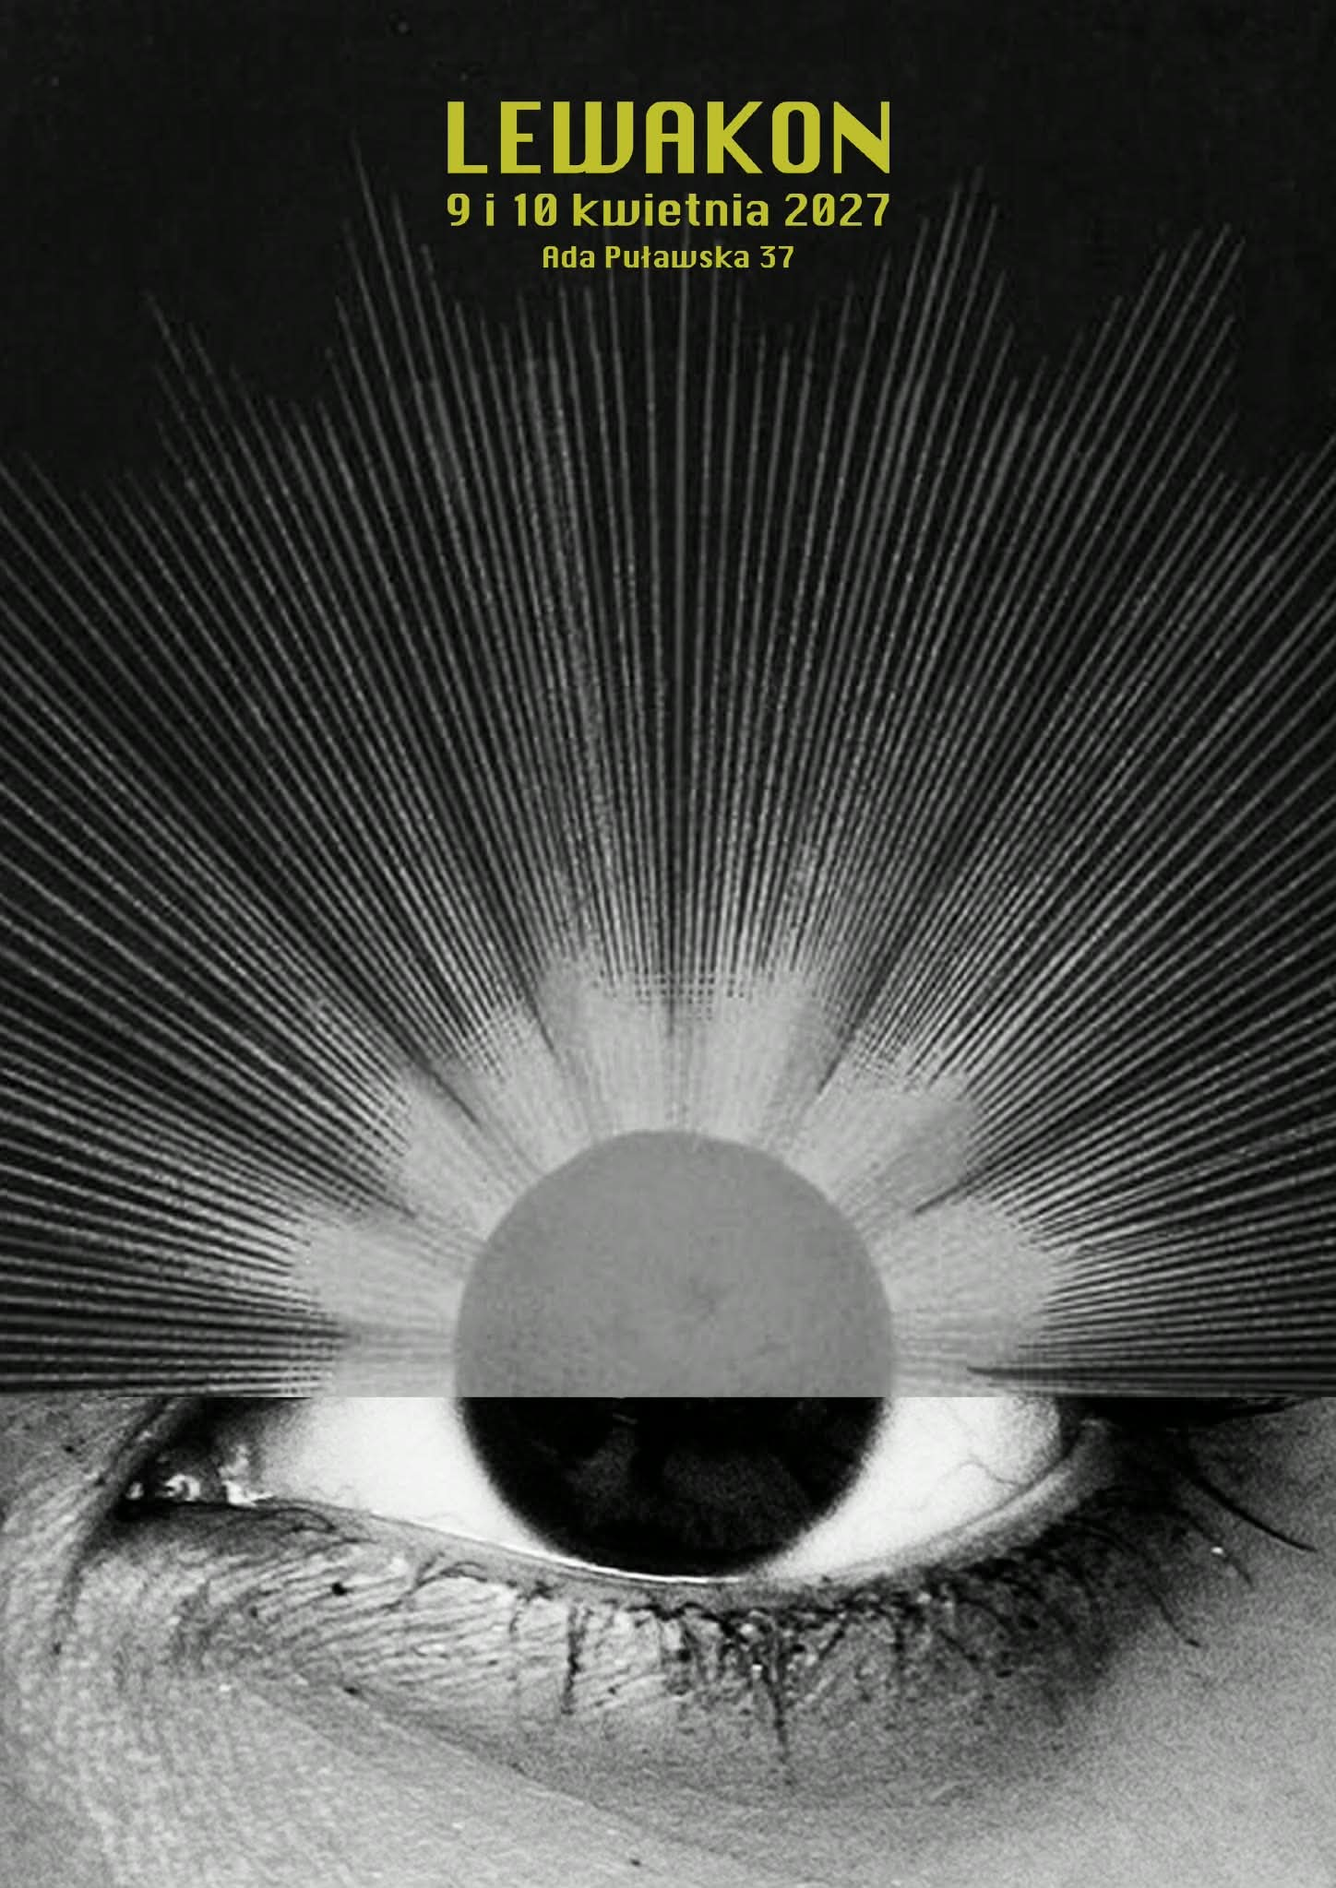
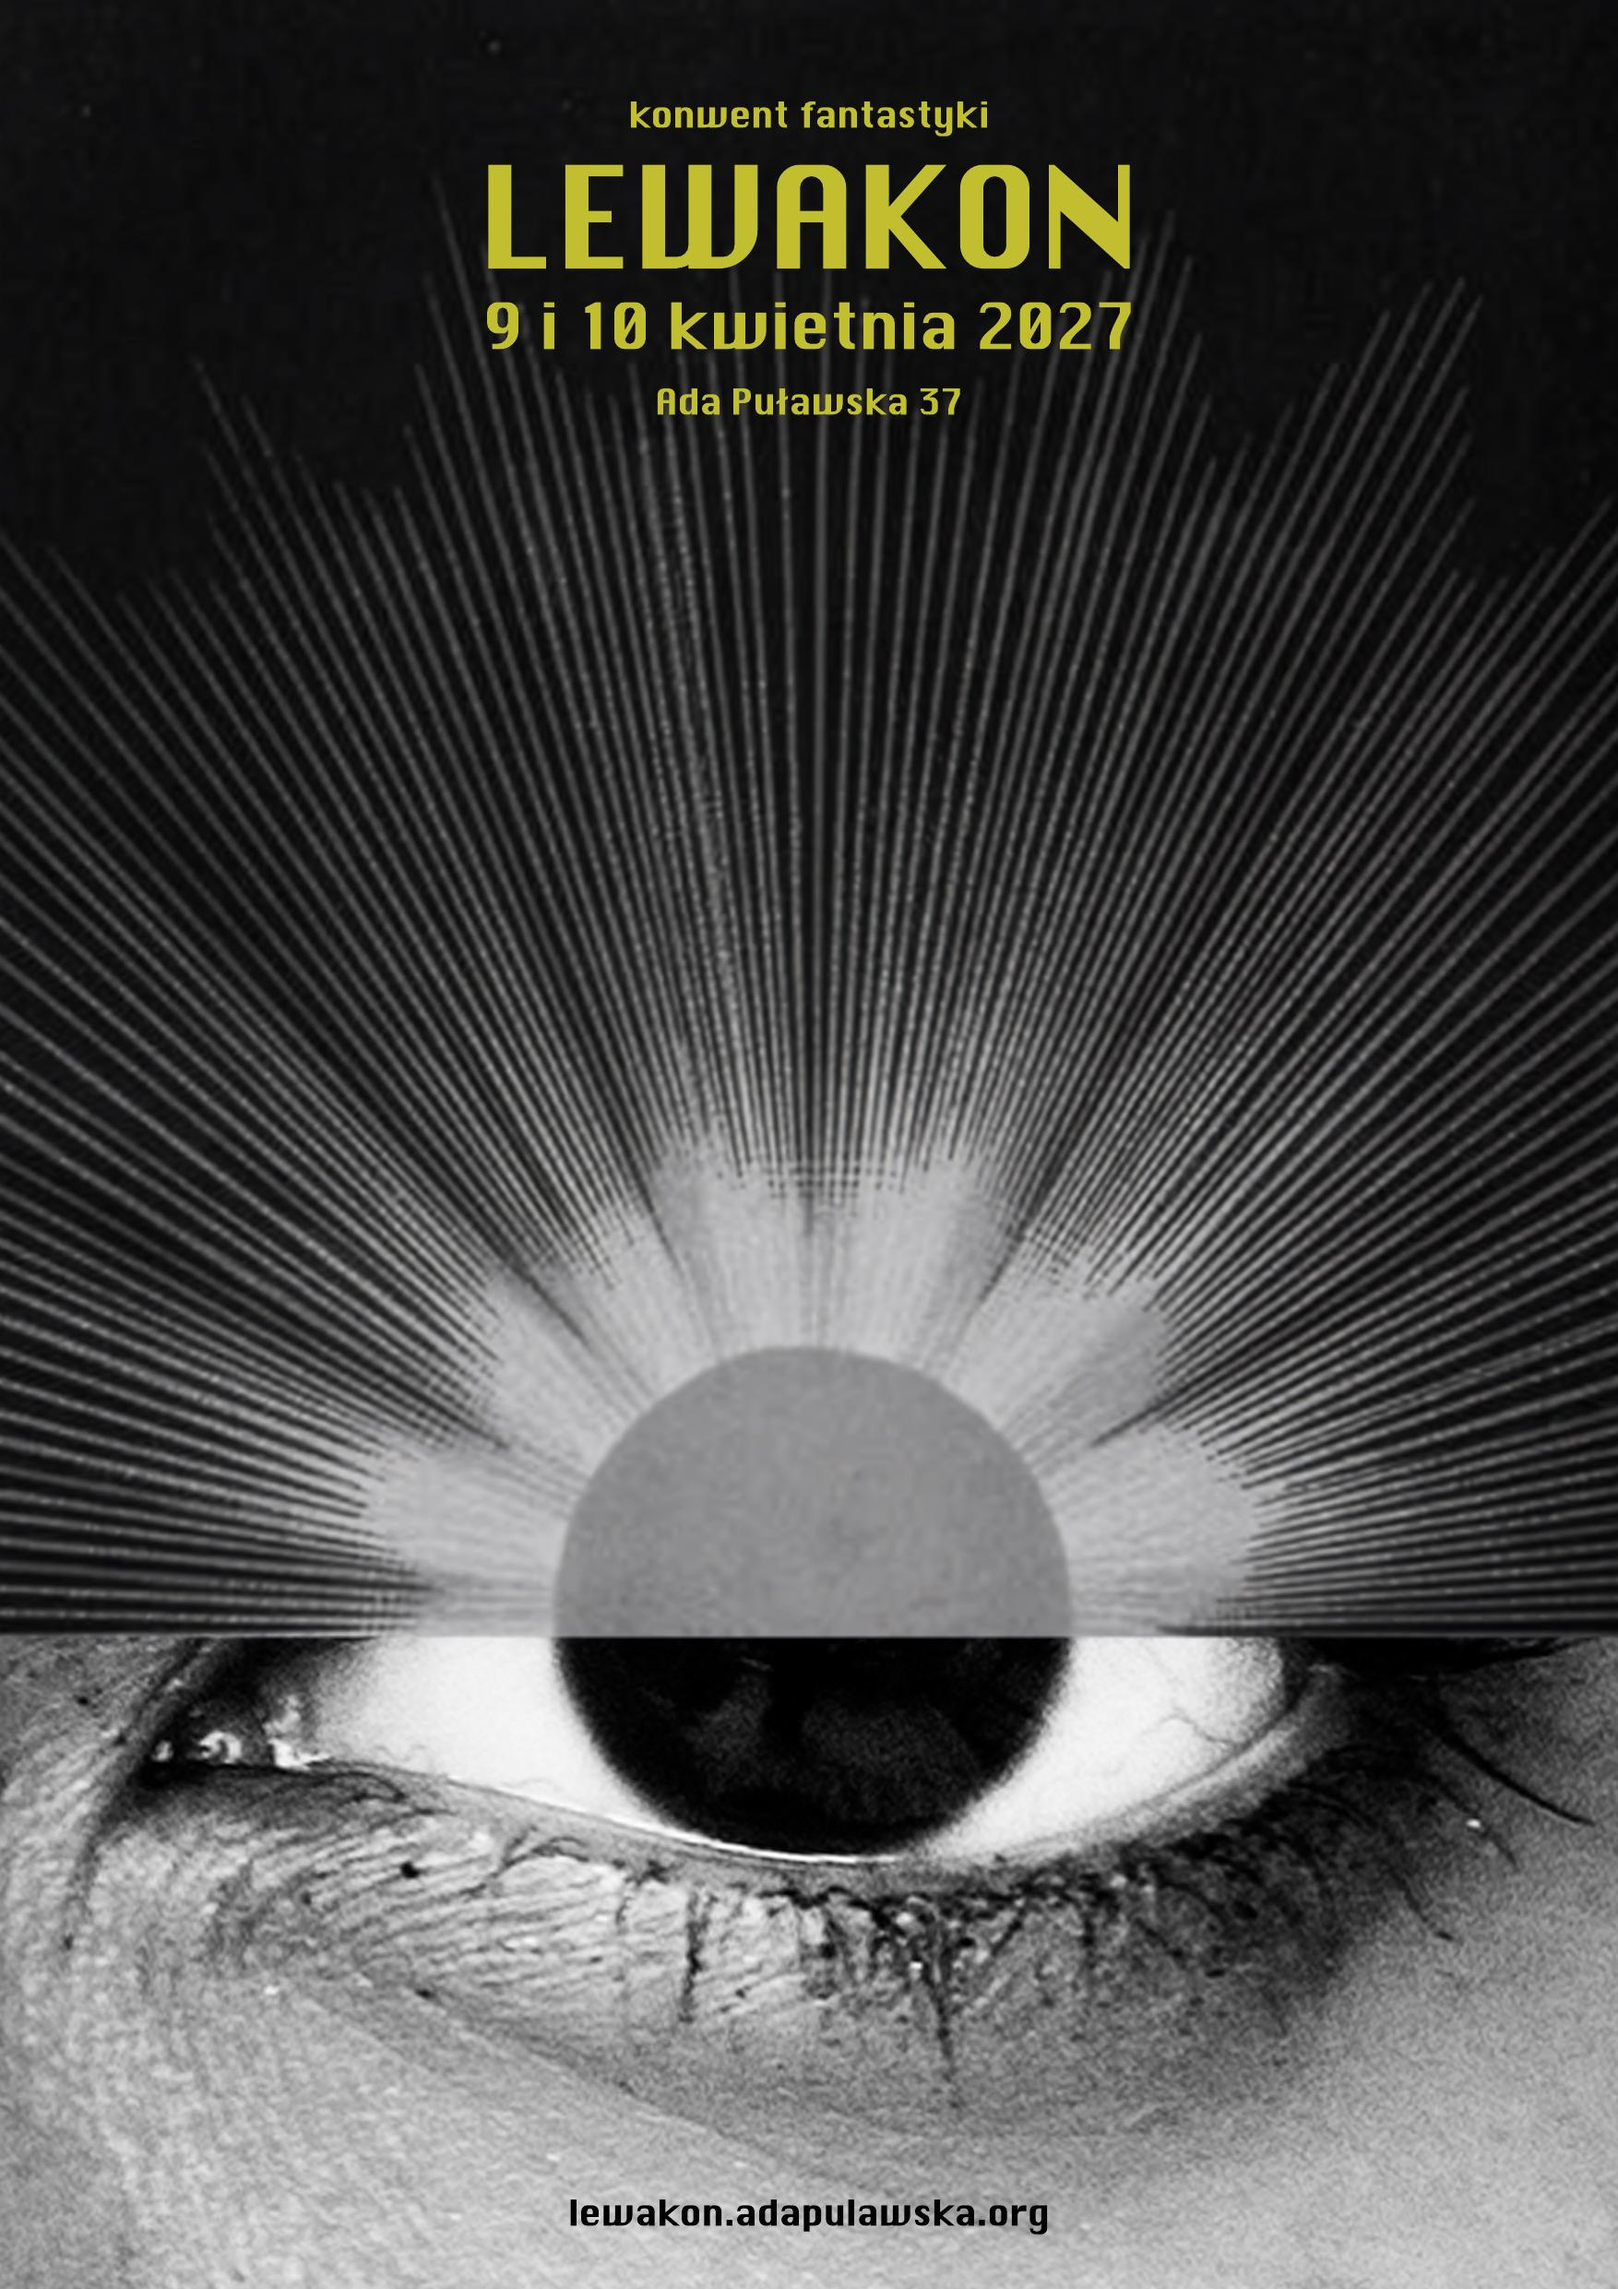
added intro text and cosmetics

diff --git a/assets/css/custom.css b/assets/css/custom.css
@@ -10,3 +10,53 @@
     width: min(70vw, 280px);
   }
 }
+.centered .news {
+  text-align: justify;
+}
+/* li z powrotem blokowe, żeby summary i read-more szły pod spodem */
+.list ul:not(.pagination) li {
+  display: block;
+}
+
+/* data + tytuł obok siebie, jak w oryginale */
+.list .post-meta {
+  display: flex;
+  align-items: baseline;
+}
+
+.list .post-meta .date {
+  width: 20rem;
+  text-align: right;
+  margin-right: 3rem;
+}
+
+@media only screen and (max-width: 768px) {
+  .list .post-meta {
+    display: block;
+  }
+  .list .post-meta .date {
+    width: auto;
+    text-align: left;
+    margin-right: 0;
+  }
+}
+
+.list .summary {
+  text-align: justify;
+  margin-top: 0.8rem;
+}
+
+.list .read-more {
+  margin-top: 0.8rem;
+}
+.list .post-meta .date {
+  width: auto;
+  text-align: left;
+  margin-right: 0;
+  font-size: 2rem;
+}
+
+.list .post-meta .title {
+  font-size: 2rem;
+  margin-left: 1rem;
+}

diff --git a/layouts/_partials/home/author.html b/layouts/_partials/home/author.html
@@ -1,0 +1,20 @@
+<h1>{{ .Site.Params.author }}</h1>
+{{ if reflect.IsSlice .Site.Params.info }}
+<h2>{{ range .Site.Params.info }}{{ . | markdownify }}<br>{{ end }}</h2>
+{{ else }}
+<h2>{{ .Site.Params.info | markdownify }}</h2>
+{{ end }}
+
+{{/* ===== WERSJA A: najnowszy post z posts/ (automatycznie) ===== 
+{{ with (first 1 (where site.RegularPages "Section" "posts")) }}
+  {{ range . }}
+    <div class="news">{{ .Content }}</div>
+  {{ end }}
+{{ end }}
+*/}}
+
+{{/* ===== WERSJA B: konkretny przypięty post (zmień ścieżkę) =====*/}}
+{{ with site.GetPage "/posts/hello-world" }}
+  <div class="news">{{ .Content }}</div>
+{{ end }}
+

diff --git a/layouts/posts/li.html b/layouts/posts/li.html
@@ -1,0 +1,10 @@
+<li>
+  <div class="post-meta">
+    <span class="date">{{ .Date | time.Format (.Site.Params.dateFormat | default "2 January 2026") }}</span>
+    <!-- <a class="title" href="{{ .Params.externalLink | default .RelPermalink }}">{{ .Title }}</a> -->
+  </div>
+  <div class="summary">{{ .Summary }}</div>
+  {{ if .Truncated }}
+    <div class="read-more"><a href="{{ .RelPermalink }}">czytaj dalej →</a></div>
+  {{ end }}
+</li>

diff --git a/content/posts/hello-world.md b/content/posts/hello-world.md
@@ -11,6 +11,42 @@ externalLink = ""
 series = []
 +++
 
-# Ogłaszamy że będzie LEWAKON
+# Ogłaszamy LEWAKON
 
-Tu pojawi się tekst o tym co robimy i w ogóle
+Najwyższa pora, żeby paladyni z magicznych krain nosili tęczę na tarczach, a międzygwiezdni rebelianci malowali trzy strzały na burtach swoich statków!
+
+Smoki i gołe baby na okładkach książek fantasy nie kojarzą się specjalnie wywrotowo i woke. Jednak nic nie jest w stanie powstrzymać zalewu lewactwa i tęczowej zarazy, które powoli kolonizują tawerny fantastyki i kosmiczne bary sci-fi. Rynek nie znosi próżni i na potrzebę musi być odpowiedź. Tak zrodził się LEWAKON. Z in vitro.
+
+No dobra, nie oszukujmy się – światy wyobraźni od dawna były zainfekowane lewakizmem, zmuszały ludzi do wyobrażenia sobie rzeczy niewyobrażalnych: równości społecznej, niebinarnych płci, farmy, na której farmerzy to zwierzęta (i jest to krytyka kapitalizmu, choć wszyscy myślą, że komunizmu). Co znaleźliśmy i znajdujemy w tych wyśnionych krainach? Marzenia, koszmary? Ucieczkę od rzeczywistości czy boleśnie prawdziwy komentarz do niej?
+
+Podczas tego pierwszego (prawdziwie!) lewicowego konwentu odwiedzimy różne miejsca. Zielone, solarpunkowe utopie, które dają odwagę, żeby wierzyć, że inna przyszłość jest możliwa. Stworzymy przestrzeń, żeby zastanowić się, jak mogłaby wyglądać i co musiało się wydarzyć, żeby się ziściła.
+
+Piaski postapokalipsy, które ostrzegają przed tym, co nas czeka, jeżeli nie przyswoimy i nie wprowadzimy w życie lewackiej-teorii-wszystkiego, i pytają, czy w takich warunkach uda się ludziom zachować resztki rigczu?
+
+Neonowe dystopie Cyberpunka®, które pozwalają spojrzeć na obecny świat krytyczniej niż redakcja Krytyki Politycznej.
+
+I wiele innych, jeszcze bardziej perwersyjnych koncepcji.
+
+Rozprawimy się z rasizmem w DeDekach, wzorcami męskości w Konanie Barbarzyńcy i śladem węglowym Sokoła Millennium.
+
+Będą:
+
+    dziwnie ubrani ludzie,
+
+    jeszcze dziwniejsza muzyka,
+
+    niekończące się debaty,
+
+    warsztaty z rzeczy, które do niczego Ci się nie przydadzą,
+
+    wszystko, czego możecie się spodziewać po konwencie,
+
+    wszystko, czego możecie się spodziewać po lewakach
+
+    i wiele więcej!
+
+Wolność!
+Równość!
+Braterstwo! Siostrzeństwo! I ogólne pokrewieństwo!
+
+Lewą marsz, widzimy się w kwietniu!
